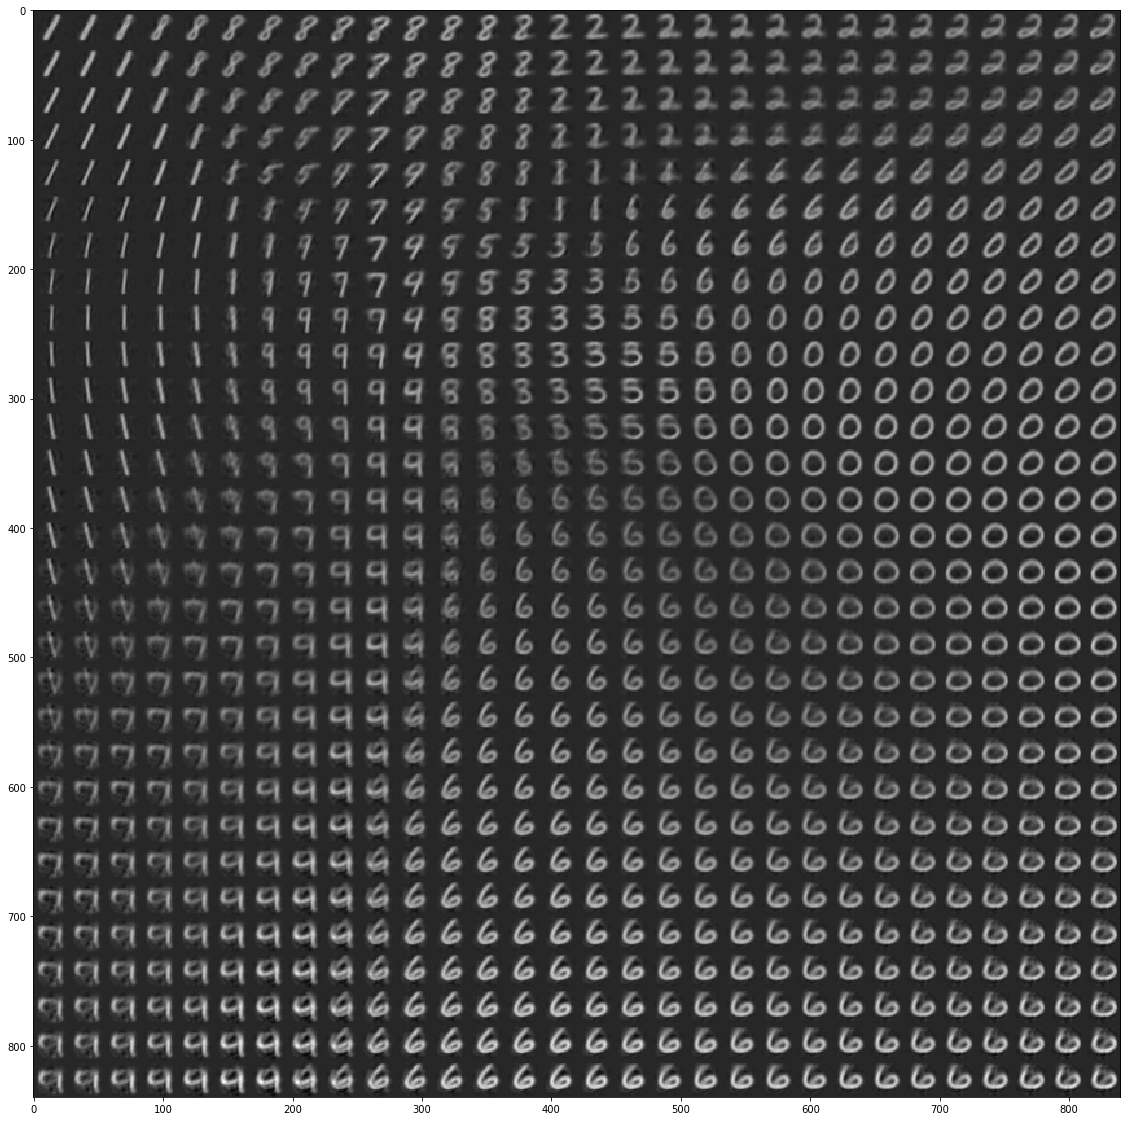
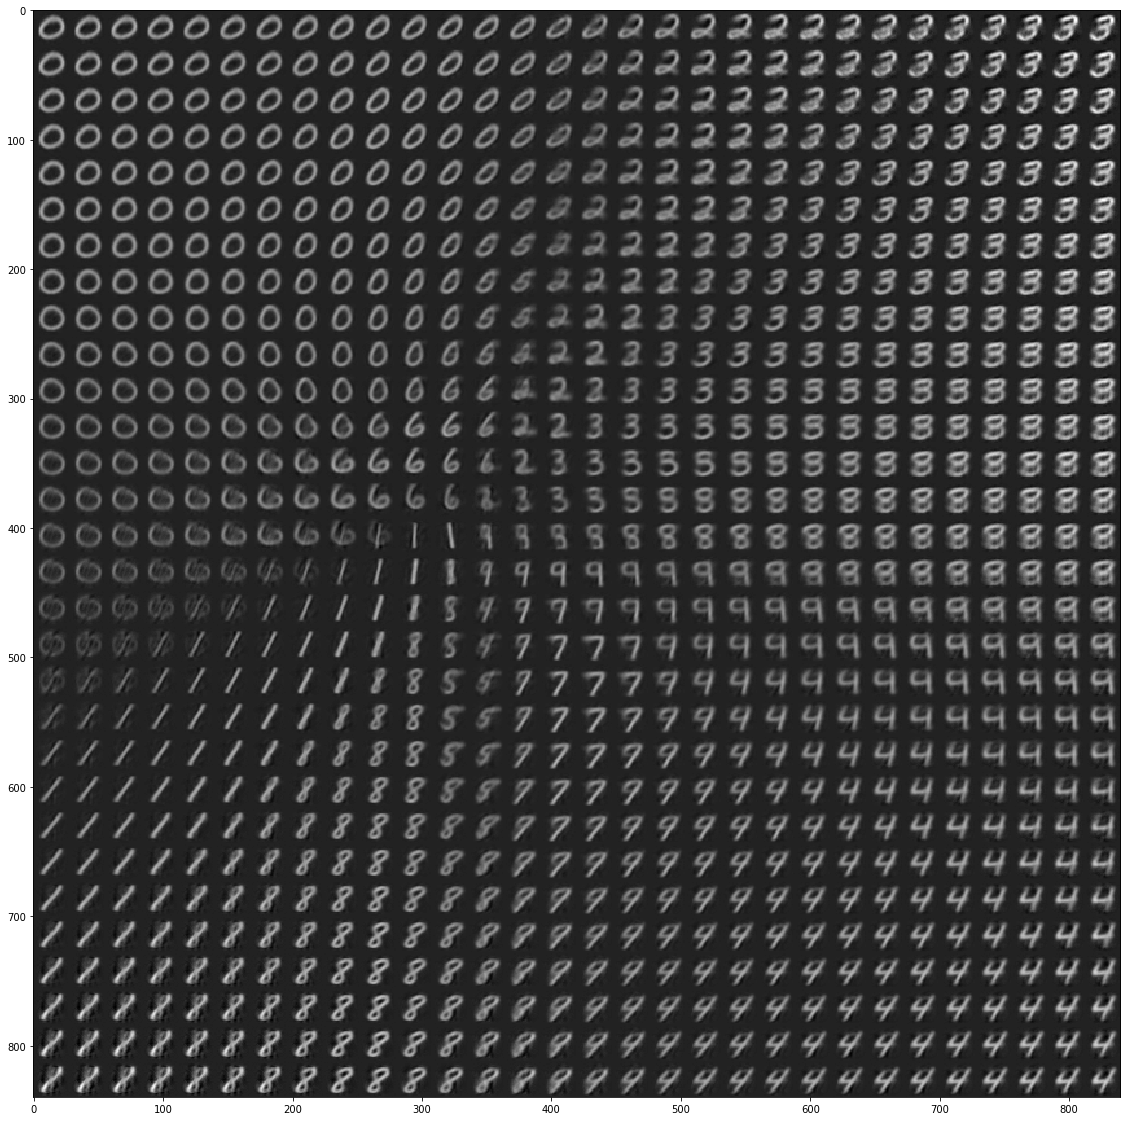
add dirichlet vae

Changed region(s): [[0.0311, 0.0, 0.9938, 0.9991]]

diff --git a/vae.py b/vae.py
@@ -1,4 +1,5 @@
 import tensorflow as tf
+import tensorflow_probability as tfp
 from typing import Callable, Tuple
 import numpy as np
 
@@ -11,6 +12,7 @@ class VAE:
         self.encoder = encoder
         self.decoder = decoder
 
+    @tf.function
     def sample_given_z(self, z_batch: tf.Tensor):
         return self.decoder(z_batch)
 
@@ -18,6 +20,7 @@ class VAE:
     def map_to_latent(self, x_batch: tf.Tensor):
         return self.encoder(x_batch)
 
+    @tf.function
     def map_from_latent(self, z_batch: tf.Tensor):
         return self.decoder(z_batch)
 
@@ -40,8 +43,9 @@ class VAE:
         # maximizing this is the same as minimizing 1 / 2 (x - dat_mu)^T (I @ dat_sigma)^{-1} (x - dat_mu)
         # which is pretty much the same as mean-squared-error between the prediction of the decoder and the data.
 
-        reconstruction_error = (1 / 2) * tf.reduce_sum(tf.multiply(x_batch - dat_mu, x_batch - dat_mu) / (dat_sigma + 1e-10),
-                                                       axis=1, keepdims=True)
+        reconstruction_error = (1 / 2) * tf.reduce_sum(
+            tf.multiply(x_batch - dat_mu, x_batch - dat_mu) / (dat_sigma + 1e-10),
+            axis=1, keepdims=True)
 
         # Then we have the KL-divergence term.
         # - KL(p | | q) = E[ \log p(z) / q(z)]
@@ -60,9 +64,9 @@ class VAE:
                               - tf.reduce_sum(tf.multiply(sample - lat_mu, sample - lat_mu) / (lat_sigma + 1e-10),
                                               axis=1, keepdims=True))
 
-        #print("Recon", reconstruction_error, "KL", kl_error)
-        #tf.print(reconstruction_error)
-        #tf.print(kl_error)
+        # print("Recon", reconstruction_error, "KL", kl_error)
+        # tf.print(reconstruction_error)
+        # tf.print(kl_error)
 
         # this is total error
         return tf.reduce_mean(reconstruction_error) + tf.reduce_mean(kl_error)
@@ -81,7 +85,7 @@ class VAE:
 
         return loss
 
-    def fit(self, data, batch_size=1, epochs= 3):
+    def fit(self, data, batch_size=1, epochs=3):
         data = data.astype(np.float32)
         dataset = tf.data.Dataset.from_tensor_slices(data). \
             shuffle(buffer_size=10000). \
@@ -92,6 +96,87 @@ class VAE:
             error, iter = 0, 0
             for batch, x in enumerate(dataset.as_numpy_iterator()):
                 loss = self.train_op(x, optimizer)
+                error, iter = error + loss, iter + 1
+
+                print(f"Error {error / iter}", end="        \r")
+            print(f"epoch {epoch} - {error / iter}")
+
+
+class DIRICHLET_VAE():
+    def __init__(self, encoder: Mapping, decoder: Mapping, smoothness: float, categories: int,
+                 alpha_smoothing: float = 0.1, label_smoothing: int = 8):
+        self.encoder = encoder
+        self.decoder = decoder
+        self.smoothness = smoothness
+        self.categories = categories
+
+        self.alpha_smoothing = alpha_smoothing
+        self.label_smoothing = label_smoothing
+
+    @tf.function
+    def map_to_latent(self, x_batch: tf.Tensor):
+        lat_alpha = self.encoder(x_batch) + self.alpha_smoothing
+        dirichlet = tfp.distributions.Dirichlet(concentration=lat_alpha, validate_args=True, allow_nan_stats=False)
+        return dirichlet.mean()
+
+    @tf.function
+    def map_from_latent(self, z_batch: tf.Tensor):
+        return self.decoder(z_batch)
+
+    @tf.function
+    def loss_op(self, x_batch: tf.Tensor, y_batch: tf.Tensor) -> tf.Tensor:
+        lat_alpha = self.encoder(x_batch) + self.alpha_smoothing
+
+        p = tf.one_hot(y_batch, self.categories) + self.smoothness
+        p = p / tf.reduce_sum(p, axis=1, keepdims=True)
+        p = p * self.label_smoothing
+
+        prior = tfp.distributions.Dirichlet(concentration=p, validate_args=True, allow_nan_stats=False)
+        dirichlet = tfp.distributions.Dirichlet(concentration=lat_alpha, validate_args=True, allow_nan_stats=False)
+
+        sample = dirichlet.sample()
+        dat_mu = self.decoder(sample)
+        reconstruction_error = tf.losses.mean_squared_error(x_batch, dat_mu)
+
+        kl_error = dirichlet.kl_divergence(prior)
+
+        # print("Recon", reconstruction_error, "KL", kl_error)
+        #tf.print(reconstruction_error.shape)
+        #tf.print("ybatch", y_batch.shape)
+        #tf.print("ybatch", y_batch)
+        #tf.print("kl error", kl_error)
+        #tf.print("p", p)
+        #print()
+
+        # this is total error
+        return tf.reduce_mean(reconstruction_error) + tf.reduce_mean(kl_error)
+
+    @tf.function
+    def train_op(self, x_batch: tf.Tensor, y_batch: tf.Tensor, optimizer: tf.optimizers.Optimizer):
+        with tf.GradientTape() as tape:
+            loss = self.loss_op(x_batch, y_batch)
+
+        variables = tape.watched_variables()
+        gradient = tape.gradient(loss, variables)
+        optimizer.apply_gradients(
+            zip(gradient,
+                variables)
+        )
+
+        return loss
+
+    def fit(self, x, y, batch_size=1, epochs=3):
+        x = x.astype(np.float32)
+        y = y.astype(np.int32)
+        dataset = tf.data.Dataset.from_tensor_slices((x, y)). \
+            shuffle(buffer_size=10000). \
+            batch(batch_size=batch_size)
+
+        optimizer = tf.optimizers.Adam(learning_rate=1e-3)
+        for epoch in range(epochs):
+            error, iter = 0, 0
+            for batch, (x, y) in enumerate(dataset.as_numpy_iterator()):
+                loss = self.train_op(x, y, optimizer)
                 error, iter = error + loss, iter + 1
 
                 print(f"Error {error / iter}", end="        \r")
@@ -117,11 +202,11 @@ def dense_encoder_decoder(data_dim: int,
             tf.keras.layers.Dense(hidden_units, activation=activation)
         )
 
-    encoder_mu_layer, encoder_sigma_layer = tf.keras.layers.Dense(latent_dim, activation=None),\
-        tf.keras.layers.Dense(latent_dim, activation=None)
+    encoder_mu_layer, encoder_sigma_layer = tf.keras.layers.Dense(latent_dim, activation=None), \
+                                            tf.keras.layers.Dense(latent_dim, activation=None)
 
     decoder_mu_layer, decoder_sigma_layer = tf.keras.layers.Dense(data_dim, activation=None), \
-        tf.keras.layers.Dense(data_dim, activation=None)
+                                            tf.keras.layers.Dense(data_dim, activation=None)
 
     @tf.function
     def encoder(data: tf.Tensor):
@@ -140,8 +225,53 @@ def dense_encoder_decoder(data_dim: int,
             x = decoder_hidden_layers[i](x)
 
         decoder_mu = decoder_mu_layer(x)
-        #log_decoder_sigma = decoder_sigma_layer(x)
+        # log_decoder_sigma = decoder_sigma_layer(x)
 
-        return decoder_mu, 1.0 #tf.exp(log_decoder_sigma)
+        return decoder_mu, 1.0  # tf.exp(log_decoder_sigma)
+
+    return encoder, decoder
+
+
+def dense_encoder_decoder_dirichlet(data_dim: int,
+                                    latent_dim: int,
+                                    layers: int,
+                                    hidden_units: int,
+                                    activation: tf.function) -> (Mapping, Mapping):
+    assert layers > 0
+
+    encoder_hidden_layers = []
+    for _ in range(layers):
+        encoder_hidden_layers.append(
+            tf.keras.layers.Dense(hidden_units, activation=activation)
+        )
+
+    decoder_hidden_layers = []
+    for _ in range(layers):
+        decoder_hidden_layers.append(
+            tf.keras.layers.Dense(hidden_units, activation=activation)
+        )
+
+    alpha_layer = tf.keras.layers.Dense(latent_dim, activation=tf.nn.relu)
+
+    decoder_mu_layer = tf.keras.layers.Dense(data_dim, activation=None)
+
+    @tf.function
+    def encoder(data: tf.Tensor):
+        x = data
+        for i in range(layers):
+            x = encoder_hidden_layers[i](x)
+
+        encoder_mu = alpha_layer(x)
+        return encoder_mu
+
+    @tf.function
+    def decoder(latent: tf.Tensor):
+        x = latent
+        for i in range(layers):
+            x = decoder_hidden_layers[i](x)
+
+        decoder_mu = decoder_mu_layer(x)
+
+        return decoder_mu
 
     return encoder, decoder
